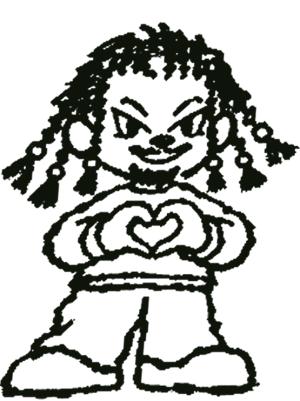
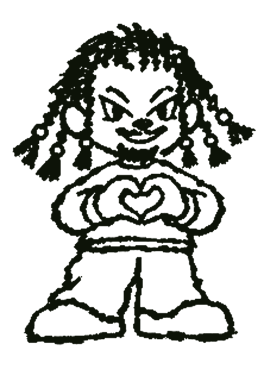
Alter ego en bucle (fotogrames 7,0-8,0 s del vídeo), quiet 4 s a la pose final; sense balanceig
Claude-Session: https://claude.ai/code/session_01CK917nBPVCJqKbkZFP6myE

diff --git a/intro.js b/intro.js
@@ -1,7 +1,7 @@
 (function () {
   // Animació d'entrada (només en obrir o recarregar la web; ho decideix l'script del <head> de index.html).
   // 1) Pop-up -> 2) vídeo del cartell sobre verd -> 3) en encongir-se, el fons es dissol i apareix la pàgina
-  // -> 4) l'alter ego fa el cor de mans i queda a la pose final de la pàgina.
+  // -> 4) l'alter ego entra en un bucle (es mou, queda quiet 4 s i torna a començar).
   var root = document.documentElement;
   var bg = document.getElementById("intro-bg"), video = document.getElementById("intro-video");
   var ego = document.getElementById("ego");
@@ -10,7 +10,6 @@
   function later(fn, ms) { var t = setTimeout(fn, ms); timers.push(t); return t; }
   function cleanup() {
     root.classList.remove("intro", "anim", "ego-wait");
-    if (ego) ego.style.display = "none";
     [bg, video].forEach(function (n) { if (n && n.parentNode) n.parentNode.removeChild(n); });
   }
   function reveal() {
@@ -25,24 +24,38 @@
     try { video.pause(); } catch (e) {}
     root.classList.remove("intro"); root.classList.add("reveal");
     later(function () { root.classList.remove("reveal"); }, 1400);
-    cleanup();
+    cleanup(); startLoop();
   }
 
-  if (!root.classList.contains("anim") || !video) { cleanup(); return; }
+  // Alter ego en bucle (fotogrames 7,0-8,0 s del vídeo): es mou, queda quiet a la pose final 4 s i torna a començar
+  var N = 36, COLS = 6, ROWS = 6, MS = 1000 / 30, HOLD = 4000, looping = false;
+  var pre = new Image(); pre.src = "assets/ego-loop.webp";   // precarrega l'sprite
+  function setFrame(i) {
+    ego.style.backgroundPosition = ((i % COLS) * 100 / (COLS - 1)) + "% " + (Math.floor(i / COLS) * 100 / (ROWS - 1)) + "%";
+  }
+  function startLoop() {
+    if (looping || !ego) return; looping = true;
+    if (window.matchMedia && matchMedia("(prefers-reduced-motion: reduce)").matches) { root.classList.remove("ego-wait"); return; }
+    var i = 0, go = false;
+    function begin() {
+      if (go) return; go = true;
+      root.classList.add("ego-on"); root.classList.remove("ego-wait");
+      ego.style.display = "block";
+      (function step() {
+        setFrame(i);
+        if (i < N - 1) { i++; setTimeout(step, MS); }
+        else { i = 0; setTimeout(step, HOLD); }
+      })();
+    }
+    if (pre.complete && pre.naturalWidth) begin();
+    else { pre.onload = begin; setTimeout(begin, 2500); }
+  }
 
-  // Alter ego: fotogrames de l'sprite (4 columnes x 1 fila) amb la durada de cadascun en ms
-  var COLS = 4;
-  var SEQ = [[0, 200], [1, 400], [2, 200], [3, 450]];   // cor de mans, picada d'ull i pose final
-  function frame(i) { ego.style.backgroundPosition = (i * 100 / (COLS - 1)) + "% 0"; }
-  function playEgo() {
-    if (done || !ego) return finish();
-    ego.style.display = "block";
-    var n = 0;
-    (function step() {
-      if (done) return;
-      if (n >= SEQ.length) { done = true; cleanup(); return; }
-      frame(SEQ[n][0]); var d = SEQ[n][1]; n++; later(step, d);
-    })();
+  if (!root.classList.contains("anim") || !video) { cleanup(); startLoop(); return; }
+
+  function playEgo() {          // després del vídeo: l'alter ego entra al bucle i la pàgina queda neta
+    if (done) return;
+    done = true; startLoop(); cleanup();
   }
 
   var T_REVEAL = 6.10, T_END = 6.66;

diff --git a/style.css b/style.css
@@ -50,12 +50,11 @@ h1 {
   font-size: clamp(48px, 12vw, 100px); line-height: .88; letter-spacing: -.035em;
   text-wrap: balance;
 }
-.ill { width: min(40%, 150px); animation: sway 5s ease-in-out infinite; transform-origin: 50% 100%; }
+.ill { width: min(40%, 150px); }
 @media (max-width: 600px) {
   main { gap: 28px; padding-block: 84px 48px; }
   .ill { width: 104px; }
 }
-@keyframes sway { 0%,100% { transform: rotate(-2deg); } 50% { transform: rotate(2deg); } }
 
 .countdown { display: flex; align-items: flex-start; justify-content: center; gap: clamp(6px, 2vw, 14px); }
 .countdown { background: #44a828; color: #fff; border-radius: 22px; padding: clamp(16px, 3.5vw, 28px) clamp(16px, 4.5vw, 40px) clamp(14px, 3vw, 22px); max-width: 100%; box-sizing: border-box; }
@@ -93,7 +92,6 @@ footer a { color: var(--fg); }
   html.flor-on, html.flor-on * { cursor: none !important; }
   html.flor-on #flor { display: block; }
 }
-@media (prefers-reduced-motion: reduce) { .ill { animation: none; } }
 
 .pop { position: fixed; inset: 0; z-index: 50; display: grid; place-items: center;
   padding: max(16px, env(safe-area-inset-top, 0px)) max(16px, env(safe-area-inset-right, 0px)) max(16px, env(safe-area-inset-bottom, 0px)) max(16px, env(safe-area-inset-left, 0px));
@@ -196,10 +194,10 @@ html.anim #intro-video.on { opacity: 1; }
 html.anim #intro-video.off { opacity: 0; transition: opacity .2s ease; }
 html.intro, html.intro body { overflow: hidden; }
 html.intro main, html.intro .site-header .home, html.intro .header-right { visibility: hidden; }
-html.anim.ego-wait .ill-img { visibility: hidden; }
+html.anim.ego-wait .ill-img, html.ego-on .ill-img { visibility: hidden; }
 .ill { position: relative; }
 .ill-img { width: 100%; }
-.ego { display: none; position: absolute; inset: 0; background: url("assets/ego-sprite.webp") 0 0 / 400% 100% no-repeat; pointer-events: none; }
+.ego { display: none; position: absolute; inset: 0; background: url("assets/ego-loop.webp") 0 0 / 600% 600% no-repeat; pointer-events: none; }
 @keyframes reveal { from { opacity: 0; transform: translateY(14px); } }
 html.reveal main { animation: reveal .8s cubic-bezier(.2, .7, .2, 1) both; }
 html.reveal .header-right { animation: reveal .7s ease both; }

diff --git a/index.html b/index.html
@@ -53,7 +53,7 @@
   </div>
 
   <div class="ill" id="ill">
-    <img class="ill-img" src="assets/alter-ego-cor.webp" alt="Il·lustració de l'alter ego de BOLTÓGRANDE fent un cor amb les mans" width="300" height="401">
+    <img class="ill-img" src="assets/alter-ego-cor.webp" alt="Il·lustració de l'alter ego de BOLTÓGRANDE fent un cor amb les mans" width="264" height="369">
     <div class="ego" id="ego" aria-hidden="true"></div>
   </div>
 
